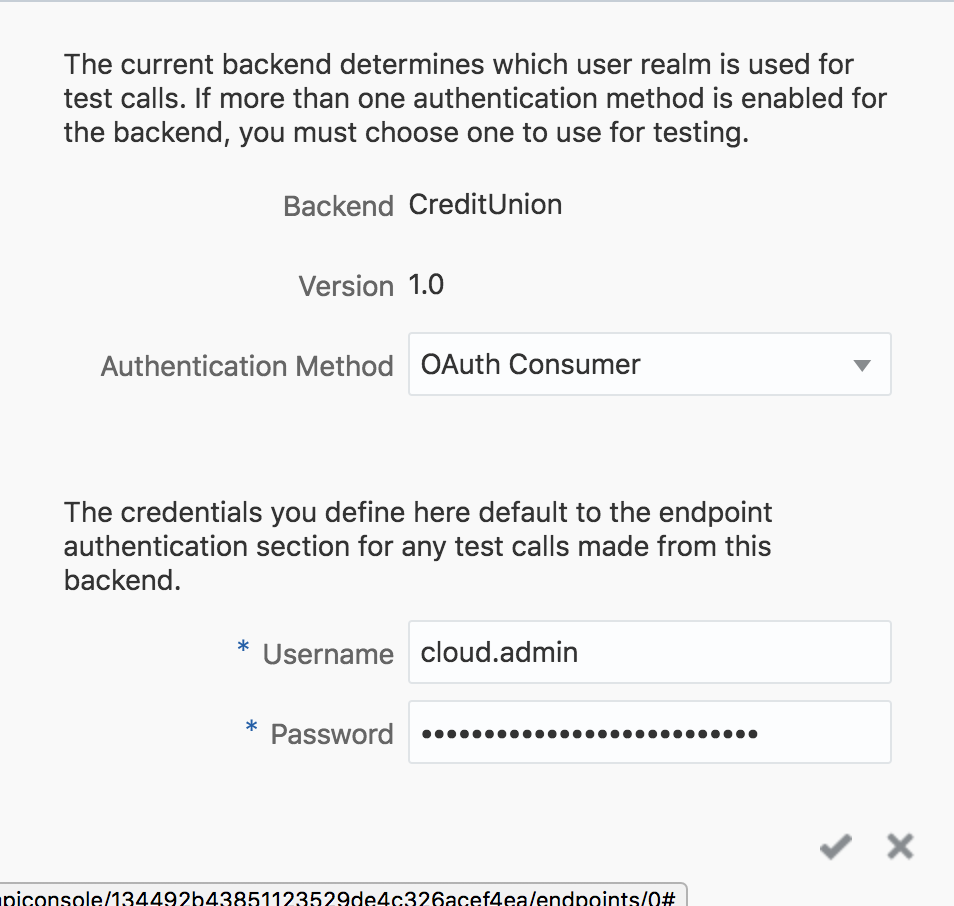
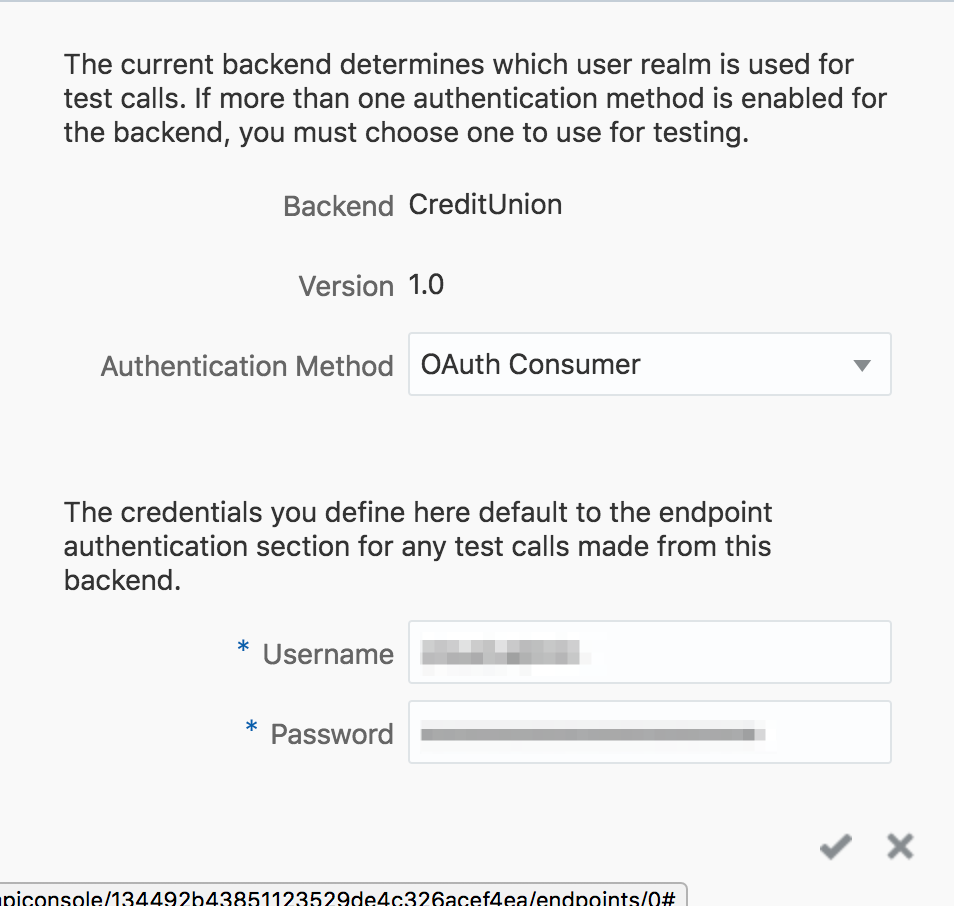
updates

Changed region(s): [[0.4256, 0.8035, 0.8208, 0.8344], [0.4256, 0.6799, 0.608, 0.7417]]

diff --git a/LabGuide100.md b/LabGuide100.md
@@ -63,7 +63,7 @@ In this workshop you will take on several different roles as the key developer o
 
 - Click on **+ New Backend** and fill out the **MBE** creation form as follows:
 
-  **Name**: `CreditUnion`
+  **Name**: `CreditUnion_<AMCE_USERNAME>`
 
   **Description**: `MBE for Credit Union Application(s)`
 
@@ -123,7 +123,7 @@ In order to secure our backend, we must restrict access to resources based on th
 
 - Click on **+ New Role** and fill out the creation form as follows:
 
-  **Role Name:** `LoanProcessor`
+  **Role Name:** `LoanProcessor_<AMCE_USERNAME>`
 
   **Description:** `A credit union's loan processor who communicates with the contact at an automobile dealership`
 
@@ -135,7 +135,7 @@ Next, we will create the **Dealer** role for the auto dealership contacts which 
 
 - Click on **+ New Role** again and fill out the creation form as follows:
 
-  **Role Name:** `Dealer`
+  **Role Name:** `Dealer_<AMCE_USERNAME>`
 
   **Description:** `Dealership contact who communicates with the loan processor of a credit union`
 
@@ -157,7 +157,7 @@ Next, we will create the **Dealer** role for the auto dealership contacts which 
 
 - Click the **+ Add** button at the top, leave the `User can request access` box unchecked, and fill out the **Group** creation form as follows and then click **Next**:
 
-  **Name:** `LoanProcessors`
+  **Name:** `LoanProcessors_<AMCE_USERNAME>`
 
   **Description:** `Credit union loan processors who communicate with the contact at an automobile dealership`
 
@@ -171,7 +171,7 @@ Next, we will create the **Dealer** role for the auto dealership contacts which 
 
 - Click **Groups** in the side navigation bar once more to teturn to the main **Groups** page. Click the **+ Add** button at the top, leave the `User can request access` box unchecked, and fill out the **Group** creation form as follows and then click **Next**:
 
-  **Name:** `Dealers`
+  **Name:** `Dealers_<AMCE_USERNAME>`
 
   **Description:** `Dealership contacts who communicate with the loan processor of a credit union`
 

diff --git a/LabGuide200.md b/LabGuide200.md
@@ -110,7 +110,7 @@ In order to create our object storage microservice and have it automatically be 
 
   ![](images/200/200-10.png)
 
-- Click **Default Test Credentials**, select **OAuth Consumer** for the Authentication Method, fill in your **Username** + **Password**, and click the checkmark to save your settings.
+- Click **Default Test Credentials**, select **OAuth Consumer** for the Authentication Method, fill in your AMCe **username** + **password**, and click the checkmark to save your settings.
 
   ![](images/200/200-11.png)
 
